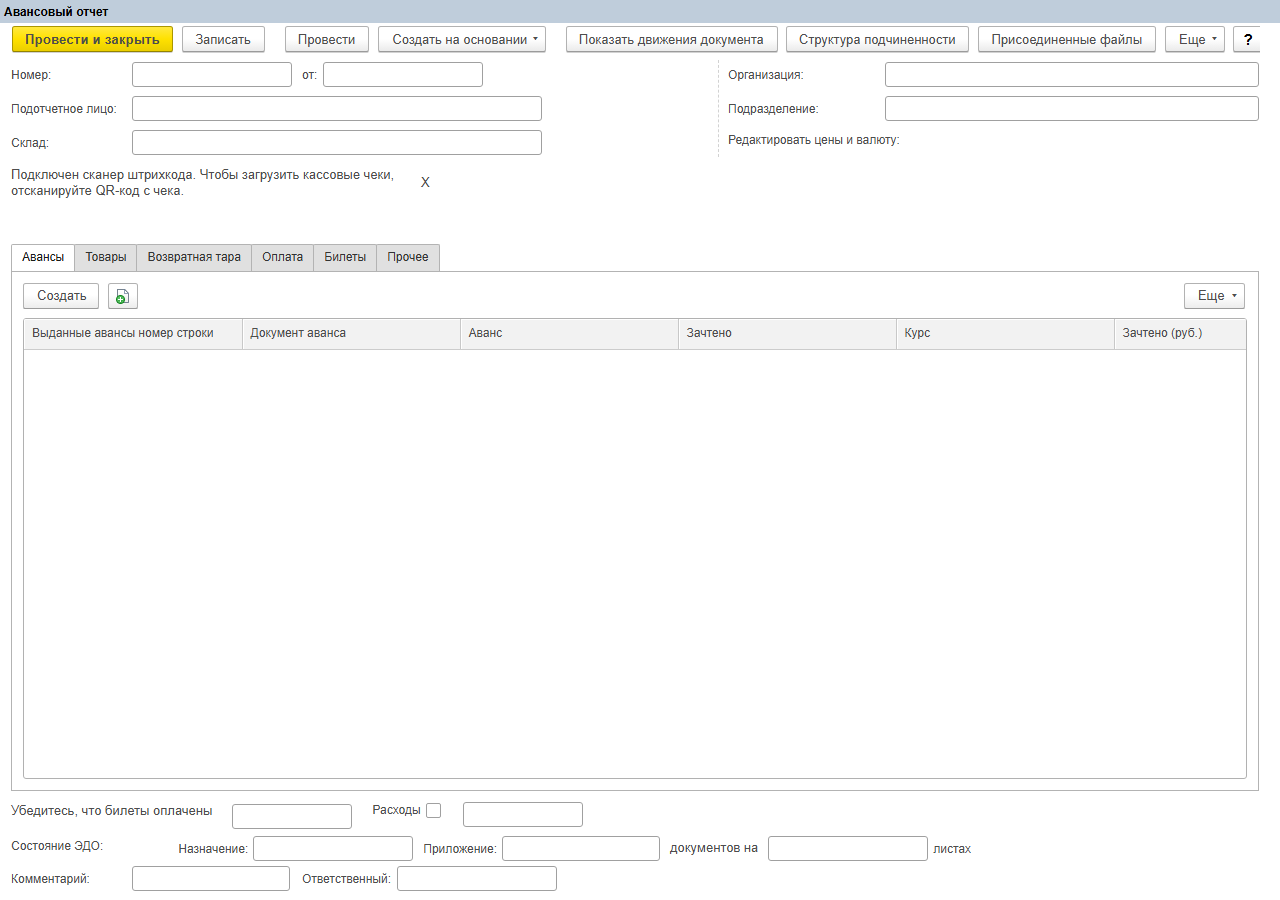
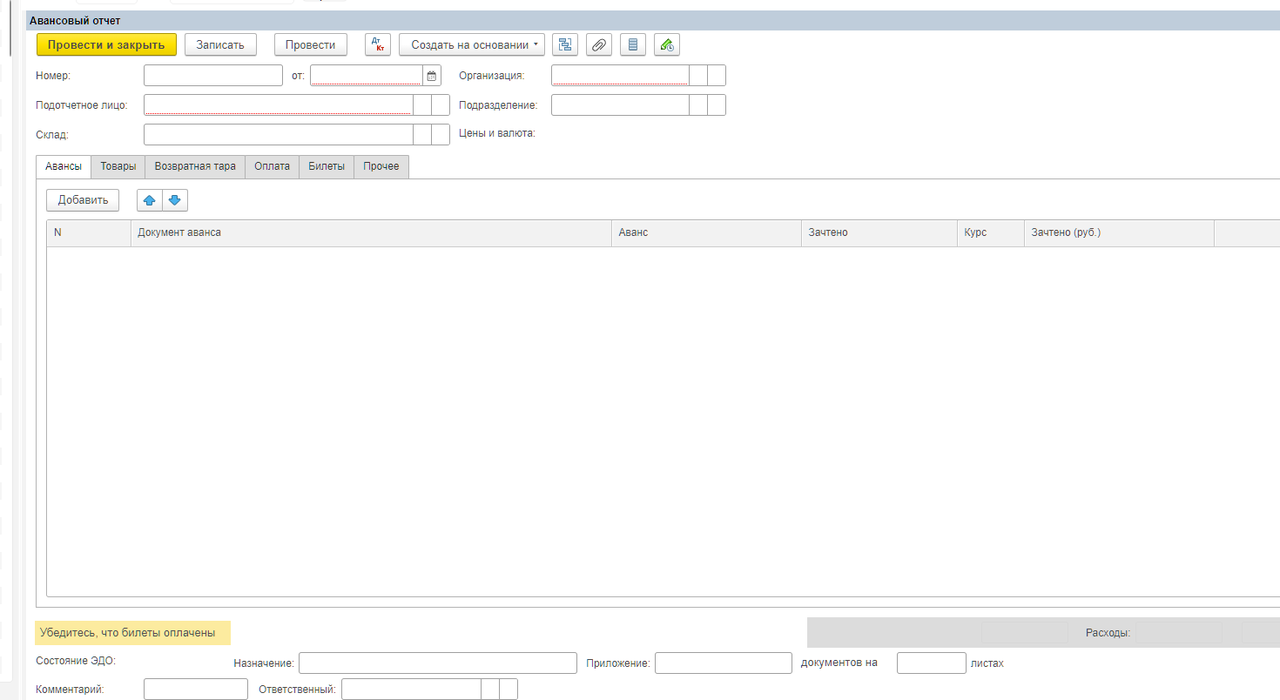
release: 0.10.0 — проверка заполнения и детали точного вида
Релиз 0.10.0: точный вид доведён до формы целиком. Обязательные поля
подчёркиваются красным пунктиром — признак проверки заполнения читается
из метаданных реквизита; командная панель формы встаёт на место, заданное
CommandBarLocation; подменю получают картинку и отображение; у полей даты
появляется кнопка календаря, а кнопки перемещения строки рисуются стрелками.
Макет группы больше не путается со ссылкой на элемент, поэтому раскладка
групп с номером 28/29 не теряется.

Модель формы сверяется с Form.xml скриптом tools/form_xml_compare.py, CLI
адресует объект вместе с видом, текст в windows-1251 разбирается собственной
таблицей кодировки, а тесты на реальной БП ищут образцы по QTV8_TEST_CORPUS.

- записи CHANGELOG для всех коммитов цикла и раздел [0.10.0];
- docs/release-notes-v0.10.0.md — описание релиза;
- скриншот точного вида обновлён: пунктир, календарь, стрелки;
- версия 0.10.0, README и ссылка на описание релиза.

Тесты: 120 (99 ядра, 10 CLI, 11 GUI), ctest 3/3.

diff --git a/docs/release-notes-v0.10.0.md b/docs/release-notes-v0.10.0.md
@@ -1,0 +1,293 @@
+# qtv8reader v0.10.0
+
+**23 ноября 2026**
+
+0.10.0 доводит точный вид до состояния, когда его можно сверять с платформой
+не по отдельным свойствам, а по форме целиком. Незаполненные обязательные
+поля подчёркиваются красным пунктиром, как в 1С; командная панель формы
+встаёт на место, заданное разработчиком; у подменю появились картинки
+и отображение, у полей даты — кнопка календаря, а кнопки перемещения строки
+рисуются стрелками. Заодно модель формы сверяется с `Form.xml`
+автоматически, CLI адресует объект вместе с видом, а разбор текста
+в windows-1251 больше не зависит от системной кодировки.
+
+## Главное
+
+- **Проверка заполнения полей.** Признак «Проверка заполнения» читается
+  из записи реквизита в метаданных и передаётся рендереру: рендерер рисует
+  красное точечное подчёркивание у незаполненного обязательного поля, как
+  платформа. В форме документа «Авансовый отчет» это 137 реквизитов,
+  из них 57 с `ShowError` и 80 с `DontCheck`; на самой форме подчёркиваются
+  «Организация» и «Подотчетное лицо», а «Подразделение», «Комментарий»
+  и «Ответственный» — нет: у них `DontCheck`. У «Склада» признак
+  `ShowError`, но автоотметка выключена в самой форме.
+- **Командная панель формы встаёт по свойству.** `CommandBarLocation`
+  (0 `None`, 1 `Auto`, 2 `Top`, 3 `Bottom`) теперь читается из заголовка
+  формы, поэтому у форм с панелью снизу или без панели она больше
+  не рисуется сверху. Сверено с `Form.xml`: «Новости/ФормаВводаГиперссылки»
+  — `Bottom`, «КонтактныеЛица/ФормаЛиды» — `None`,
+  «ВерсииФайлов/ФормаВыбора» — `Top`, а у «Новости/ФормаДокумента»
+  свойство не задано, как и в выгрузке.
+- **Подменю получили картинку и отображение.** У всплывающих групп командной
+  панели («Печать», «Заполнить», «Отчеты») появились пиктограммы, а у «ЭДО»
+  — правильное текстовое отображение: платформа пишет оба свойства в ту же
+  запись оформления, что у декораций и кнопок.
+- **Календарь и стрелки.** У полей даты рисуется кнопка календаря, даже если
+  у поля выключена «Кнопка выбора»: это часть редактора даты, а не признак
+  поля. Кнопки перемещения строки в панели таблицы — картинки
+  `StdPicture.MoveUp` и `MoveDown`, как в интерфейсе «Такси», а не подписи.
+- **Раскладка групп больше не теряется.** Макет группы искался по первому
+  числу записи, а ссылка на сам элемент — это тоже список, и номер группы
+  часто равен 28 или 29, то есть совпадает с кодом узла макета. Из-за этого
+  у таких групп пропадали ориентация, поведение, показ заголовка, отступы,
+  объединение и сквозное выравнивание.
+- **Модель формы сверяется с `Form.xml` автоматически.** В репозитории
+  появился `tools/form_xml_compare.py`: он показывает, каких свойств модель
+  не отдаёт, где значения расходятся и где различается дерево элементов.
+  Отчёт по корпусу (52 управляемые формы восьми объектов БП) — в `CHANGELOG`
+  и `docs/form-exact-view.md`.
+- **CLI: объект вместе с видом.** `Документ.АвансовыйОтчет`,
+  `Справочники.Валюты` — вид уточняет поиск, когда имя повторяется
+  («Новости» есть и у справочника, и у общей картинки). Неоднозначный ответ
+  теперь показывает вид каждого совпадения и подсказывает форму записи.
+- **Текст в windows-1251 разбирается всегда.** В Qt 6 нет декодера
+  windows-1251, поэтому ветка разбора никогда не срабатывала и однобайтовый
+  текст формата 1.5 раскодировался системной кодировкой — на Linux получался
+  мусор. Таблица кодировки теперь своя.
+- **Дерево метаданных** больше не заливает выбранную строку системным синим:
+  выбранный узел отмечается нейтральным светло-серым вместе с полосой
+  ветвления. В тёмной теме остаётся штатное выделение.
+
+![Точный вид формы](https://raw.githubusercontent.com/fishca/qtv8reader/v0.10.0/docs/screenshot-form-exact.png)
+
+## Точный вид формы
+
+### Обязательные поля
+
+- Признак проверки заполнения реквизита лежит в его записи в метаданных:
+  тринадцатое поле — 0 `DontCheck`, 1 `ShowError`, 2 `ShowWarning`. Модель
+  отдаёт карту `objectMeta.fillChecking` (имя реквизита → значение),
+  а рендерер подчёркивает незаполненное поле красным пунктиром при
+  `ShowError`. Значение `ShowWarning` не рисуется: в выгрузке БП его нет
+  ни у одной из 7890 форм, и оформление предупреждения ещё не проверено.
+- Явный признак формы `AutoMarkIncomplete` важнее проверки реквизита,
+  поэтому у «Склада» в форме «Авансового отчета» подчёркивания нет, хотя
+  у реквизита стоит `ShowError`.
+- Стандартный реквизит «Дата» документа в метаданных не записан, но
+  платформа проверяет его всегда: значение `ShowError` подставляется при
+  сборке `objectMeta`, поэтому «Дата» подчёркивается пунктиром вместе
+  с «Организацией».
+- Сверено с выгрузкой конфигурации в XML по реквизитам документа
+  «АвансовыйОтчет», справочника «Банки» и регистра сведений «КурсыВалют»;
+  на синтетической форме проверяется тестом, что признак формы,
+  считанный из бинарного файла, доходит до рендерера.
+
+### Командная панель формы
+
+- Заголовок формы — запись верхнего уровня: сначала свойства самой формы,
+  затем элементы. Семнадцатое поле — `CommandBarLocation`: 0 `None`,
+  1 `Auto` (по умолчанию), 2 `Top`, 3 `Bottom`. В модель свойство попадает
+  как `properties.CommandBarLocation`, а `Auto` не пишется: рендерер сам
+  ставит панель сверху, и платформа в `Form.xml` поступает так же.
+- Сверка по корпусу: `Bottom` — «Новости/ФормаВводаГиперссылки»,
+  `None` — «КонтактныеЛица/ФормаЛиды», `Top` — «ВерсииФайлов/ФормаВыбора»,
+  без свойства — «Новости/ФормаДокумента» и «АвансовыйОтчет/ФормаДокумента».
+  По 52 формам восьми объектов БП расхождений `Form.CommandBarLocation`
+  больше нет (было 28 форм).
+- Чтобы такие поля вообще было видно, `form-model --nodes` печатает раздел
+  `header` — поля заголовка формы с номерами: элементы лежат в той же
+  записи, и по дереву свойства формы не находятся.
+
+### Подменю и картинки
+
+- У подменю (всплывающей группы, вид группы 1) оба свойства лежат в записи
+  оформления `{7, {4, …}, …}`: второй элемент — картинка в той же форме
+  записи, что у декораций и кнопок (отрицательный код стандартной картинки
+  платформы или GUID общей картинки конфигурации), пятый — `Representation`
+  (0 `Text`, 1 `Picture`, 2 `PictureAndText`, 3 `Auto`).
+- Добавлены известные коды платформенных картинок: −13 → `StdPicture.Print`
+  и GUID `977e831a…` → `StdPicture.CreateListItem`; коды сняты с `Form.xml`
+  тех же подменю. Запись ищется по составу, поэтому смещение подменю внутри
+  записи элемента роли не играет.
+- Сверено с `Form.xml` на форме «АвансовыйОтчет/ФормаДокумента»:
+  «Печать» → `StdPicture.Print` и `PictureAndText`, «Заполнить» →
+  `CommonPicture.ЗаполнитьФорму` и `PictureAndText`, «Отчеты» →
+  `CommonPicture.Отчеты` и `PictureAndText`, «ЭДО» — без картинки
+  и без свойства отображения. По девяти формам «Авансового отчёта»
+  расхождений `Popup.Picture` и `Popup.Representation` больше нет;
+  тест — `TestForm::popupPictureAndRepresentation`.
+
+### Календарь и стрелки
+
+- Кнопка календаря принадлежит редактору даты, а не признаку «Кнопка
+  выбора», поэтому рисуется и у поля с `ChoiceButton=false`; у поля только
+  для просмотра её нет.
+- Кнопки перемещения строки в панели таблицы стали картинками
+  `StdPicture.MoveUp` и `MoveDown` вместо подписей «Переместить вверх»
+  и «Переместить вниз». В интерфейсе 8.5 остаются подписи — там платформа
+  рисует их так же.
+
+### Группы и макет
+
+- Ссылка на элемент формы записана списком `{номер, GUID}`, а номер группы
+  часто равен 28 или 29 — то есть совпадает с кодом узла макета `{28|29,…}`.
+  Такой узел принимался за ссылку, и всё, что лежит в макете, терялось:
+  ориентация (`Group`), поведение (`Behavior`), показ заголовка
+  (`ShowTitle`), отступы (`HorizontalSpacing`/`VerticalSpacing`), сквозное
+  выравнивание (`ThroughAlign`), объединение (`United`), ширина дочерних
+  элементов, `Collapsed` и `DisplayImportance`.
+- Например, у группы «ГруппаПодтверждениеРасхода» формы
+  «АвансовыйОтчет/УчетНДС» (номер 29) модель отдавала `Group=Horizontal`
+  вместо `Vertical` и теряла `Behavior=Usual`, `ShowTitle=false`
+  и `ThroughAlign=DontUse`.
+- Теперь макет ищется со второго поля записи и должен содержать больше двух
+  элементов: у ссылки второй элемент — GUID, а не число. Регрессионный тест
+  (`TestForm::layoutNodeIsNotItemReference`) падает при возврате старого
+  поиска.
+
+### Ошибка загрузки страницы
+
+- При открытии формы в точном виде страница рисовалась правильно, но под ней
+  оставалось сообщение «Страница точного вида не загрузилась (код 9)»:
+  модель формы загружалась дважды подряд. `setExactFormModel()` вызывал
+  `load()`, а следом `applyExactViewState()` — второй переход отменял только
+  что начатый первый, и WebView2 сообщал `CONNECTION_ABORTED` (9) при уже
+  отрисованной странице.
+- Теперь загрузку делает только `applyExactViewState()`, а успешное
+  завершение перехода (`ready()`) скрывает сообщение о прошлой ошибке, чтобы
+  прерванный переход не оставлял лишний текст.
+
+## Дерево и интерфейс
+
+- Выбранный узел дерева метаданных отмечается нейтральным светло-серым
+  цветом вместе с полосой ветвления: системная синяя заливка перекрывала
+  значки и текст, а синяя полоска слева от строки рисовалась отдельно.
+- В тёмной теме остаётся штатное выделение темы: светло-серый на тёмном
+  фоне читался бы как ошибка оформления.
+- `--select-form` принимает объект с видом, как и остальные команды CLI:
+  `Документ.АвансовыйОтчет:ФормаДокумента` раньше не совпадал ни с одним
+  объектом, и вместо запрошенной формы открывалась последняя выбранная.
+
+## CLI и сверка с Form.xml
+
+- Объект можно адресовать вместе с видом: `Документ.АвансовыйОтчет`,
+  `Справочники.Валюты` — принимается и единственное число, как в 1С,
+  и название категории. В больших конфигурациях имена повторяются:
+  «ВидыКонтактнойИнформации» есть и у справочника, и у общей картинки,
+  «Новости» — у справочника и у общей картинки; раньше такие запросы
+  отклонялись как неоднозначные.
+- Неоднозначный ответ теперь показывает вид каждого совпадения и подсказывает
+  форму записи. Тест на синтетическом контейнере проверяет, что вид
+  и категория находятся, чужой вид честно отвечает «не найден»,
+  а неизвестный префикс видом не считается.
+- `tools/form_xml_compare.py` сверяет JSON-модель формы с `Form.xml`
+  выгрузки конфигурации:
+
+  ```sh
+  python tools/form_xml_compare.py \
+      --cli build/v8reader_cli \
+      --config <файл.cf> \
+      --dump <ConfigFiles.zip|каталог выгрузки> \
+      --object АвансовыйОтчет --object Новости \
+      --report out/compare.txt
+  ```
+
+  Скрипт показывает, каких свойств модель не отдаёт, где значения
+  расходятся, где различается дерево и какие формы платформа выгрузила как
+  обычные (8.1/8.2) — их просмотрщик не поддерживает, и ошибками разбора
+  они не считаются.
+
+## Разбор и тесты
+
+- Текст в windows-1251 разбирается собственной таблицей кодировки, а не
+  системной: в Qt 6 `QStringConverter` умеет только UTF, Latin-1
+  и системную кодировку, поэтому `QStringDecoder("windows-1251")` невалиден
+  и ветка cp1251 никогда не срабатывала. Добавлена эвристика «это
+  однобайтовый текст»: двоичные данные по-прежнему уходят в запасной путь
+  с ошибкой.
+- Образцы настоящих конфигураций для тестов ищутся по переменной
+  `QTV8_TEST_CORPUS` (каталог с образцами или путь к файлу), затем
+  по известным каталогам машин разработчиков. Раньше пути были зашиты
+  под одну машину, и 15 тестов форм, тесты MXL, метаданных и выгрузки
+  пропускались везде, кроме неё; теперь на реальной БП прогоняются тесты форм
+  и тесты MXL.
+- 120 автотестов: 99 ядра, 10 CLI, 11 GUI. `ctest` — 3/3. Три теста ядра
+  пропускаются без образцов `1Cv8_test1.cf` и `UI_Portable.epf`, которых
+  на машине нет.
+
+## Что осталось
+
+- По девяти формам «Авансового отчёта» сверка показывает 228 свойств,
+  которых модель не отдаёт, 15 расхождений значений и 20 расхождений дерева.
+  Крупнейшие группы свойств — обработчики событий (`Events`), пути к данным
+  полей панели настроек отчёта (`DataPath`, `FooterDataPath`), параметры
+  и список выбора (`ChoiceParameters`, `ChoiceParameterLinks`,
+  `ChoiceList`), формат надписей, `WindowOpeningMode`, `AutoTime`
+  и `Width` самой формы, `AutoCommandBar` и дополнения поиска как свойства
+  таблицы, а также подпись, картинка и представление общих команд на панели
+  (20 кнопок).
+- У двух форм «Авансового отчёта» — «ВыданныеАвансы» и «Суточные» — модель
+  пока отдаёт только командную панель: таблица, поля и итоги не разбираются.
+  В панелях автозаполнения нескольких форм модель показывает стандартные
+  кнопки `_stdWrite`, `_stdPost`, `_stdPostAndClose` и подменю
+  `_global_create_based_on`, которых платформа в выгрузку не пишет.
+- Точечная маска-подсказка в пустом поле даты (в 1С — мелкие точки, намекающие
+  на формат) не воспроизводится: поле остаётся пустым.
+- Полный список разобранных свойств и правил — в
+  [docs/form-exact-view.md](docs/form-exact-view.md).
+
+## Проверено
+
+- Сверка с `Form.xml` по девяти формам «Авансового отчёта»: по свойствам,
+  которые читает 0.10.0 (`CommandBarLocation`, картинка и отображение
+  подменю), расхождений нет; остальное сведено в «Что осталось».
+- `CommandBarLocation` сверен по четырём формам с известным значением
+  (`Bottom`, `None`, `Top` и «свойство не задано») и по 52 формам восьми
+  объектов БП — расхождений нет.
+- `fillChecking` сверен с выгрузкой в XML по реквизитам трёх объектов;
+  в форме «Авансового отчёта» — 137 реквизитов: 57 `ShowError`
+  и 80 `DontCheck`.
+- `ctest` — 3/3; сборка MSYS2/MinGW-w64 (GCC 16, Qt 6.11.2, Release).
+
+## Ограничения
+
+- Проект работает только на чтение; исполнение модулей и форм
+  не поддерживается. Просматриваются управляемые формы (8.2/8.3/BAS);
+  обычные формы 8.1/8.2 не поддерживаются.
+- Вид близок к конфигуратору, но не бит-в-бит: оставшиеся расхождения
+  перечислены в [docs/form-exact-view.md](docs/form-exact-view.md).
+- Точный вид доступен только в Windows-сборке: на Linux и без WebView2
+  остаётся упрощённый рендерер.
+
+## Готовые сборки
+
+### Windows 10/11 x64
+
+`qtv8reader-v0.10.0-windows-x86_64.zip` — портативная сборка, Qt и все
+библиотеки внутри, установка не требуется. Распаковать и запустить
+`qtv8reader.exe`. Для точного вида нужен WebView2 Runtime.
+
+### Linux x64
+
+- `qtv8reader-v0.10.0-linux-x86_64.AppImage` — самодостаточный файл
+  (glibc 2.35+):
+
+  ```sh
+  chmod +x qtv8reader-v0.10.0-linux-x86_64.AppImage
+  ./qtv8reader-v0.10.0-linux-x86_64.AppImage
+  ```
+
+- `qtv8reader-v0.10.0-linux-x86_64.tar.gz` — бинарники с библиотеками,
+  включая `bin/v8reader_cli`.
+
+Контрольные суммы — в `SHA256SUMS`.
+
+## Лицензии сторонних компонентов
+
+Сборки включают Qt 6 (LGPL-3.0), zlib, ICU и другие библиотеки с открытыми
+лицензиями; SDK WebView2 и рендерер BslEdit — с условиями Microsoft (MIT для
+BslEdit). Полный перечень — в `THIRD-PARTY-NOTICES.txt` в составе пакета.
+Библиотеки Qt поставляются отдельными файлами и могут быть заменены
+совместимыми сборками.
+
+Проект: https://github.com/fishca/qtv8reader

diff --git a/README.md b/README.md
@@ -151,8 +151,8 @@ Microsoft Edge WebView2. Данные берутся из контейнера: 
 
 Самодостаточные сборки публикуются в разделе
 [Releases](https://github.com/fishca/qtv8reader/releases).
-Актуальная версия — **0.9.0**; что нового — в [CHANGELOG.md](CHANGELOG.md)
-и в [описании релиза](docs/release-notes-v0.9.0.md).
+Актуальная версия — **0.10.0**; что нового — в [CHANGELOG.md](CHANGELOG.md)
+и в [описании релиза](docs/release-notes-v0.10.0.md).
 
 - **Windows 10/11 x64** — `qtv8reader-<версия>-windows-x86_64.zip`:
   Qt и все библиотеки внутри, установка не нужна. Распаковать и запустить
@@ -172,9 +172,9 @@ Microsoft Edge WebView2. Данные берутся из контейнера: 
 Релиз собирается автоматически при отправке тега:
 
 ```sh
-git tag v0.9.0
+git tag v0.10.0
 git push origin main
-git push origin v0.9.0
+git push origin v0.10.0
 ```
 
 ## Требования

diff --git a/CHANGELOG.md b/CHANGELOG.md
@@ -1,6 +1,6 @@
 # История изменений
 
-## [0.10.0] — не выпущено
+## [0.10.0] — 2026-11-23
 
 ### Добавлено
 
@@ -918,3 +918,4 @@
 - Первый публичный релиз: чтение `.cf/.cfe/.epf/.erf`, CLI и GUI,
   выгрузка объектов, портативные сборки Windows и Linux (AppImage, tar.gz),
   GitHub Actions.
+
